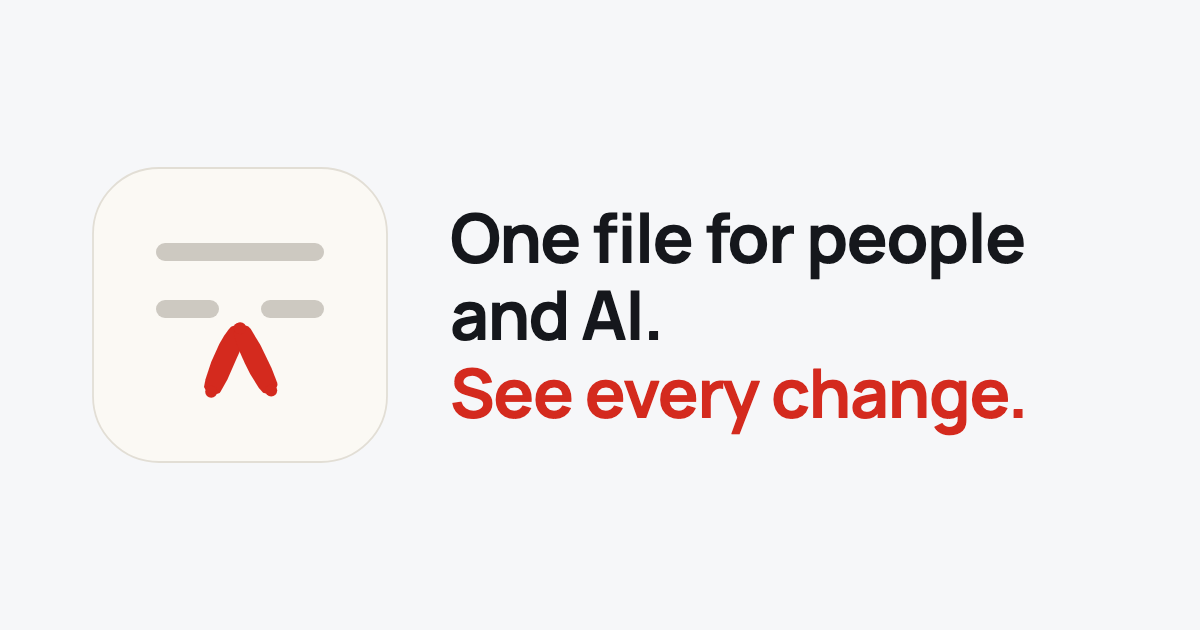
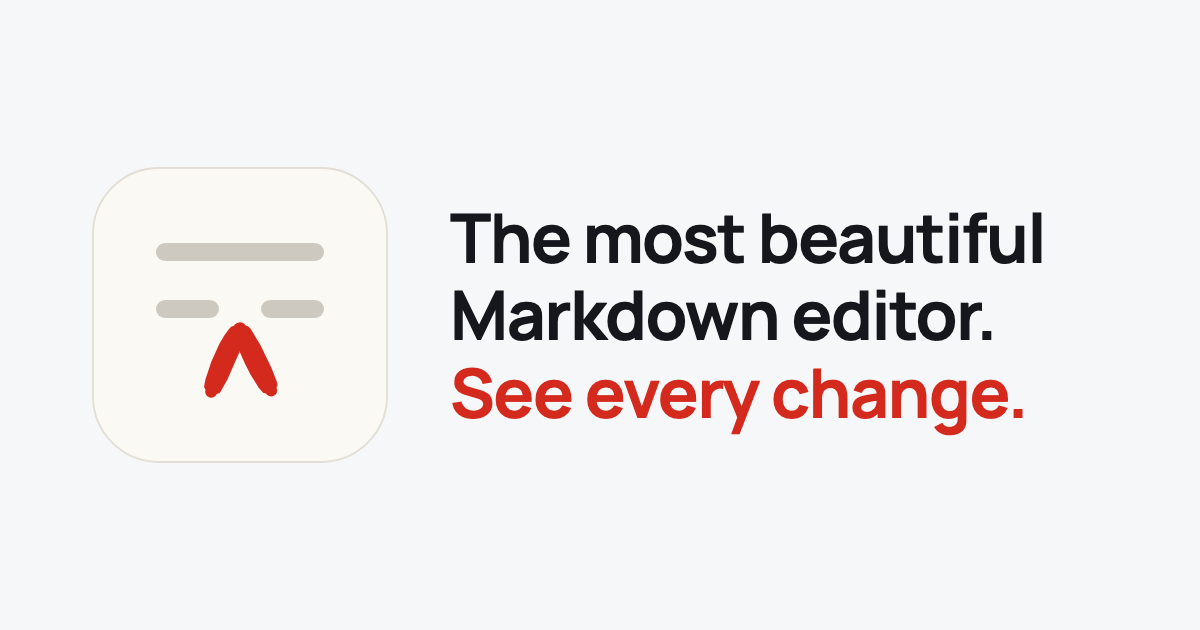
Website: the hero says what Redlines is first, the most beautiful Markdown editor
The hero, the page title, the lede and the social image led with a shared format for people and AI. The README and docs/design.md lead with the most beautiful Markdown editor, and so does the site now; 'See every change.' stays as the hero's second line, and the format's case stays in its own section.

Changed region(s): [[0.37, 0.3317, 0.8942, 0.4524], [0.37, 0.4524, 0.8325, 0.5429]]

diff --git a/website/lib/site.ts b/website/lib/site.ts
@@ -18,10 +18,10 @@ export const links = {
   license: `${product.repository}/blob/main/LICENSE`,
 };
 
-const lede = `People and AI need a shared document format: a plain file that holds who changed what, that both can read, edit and review. ${name} is that format, built on Markdown, with a free, open-source Mac editor for it. Ask @Claude or @Codex in a comment, and its reply and any tracked edit land in the file.`;
+const lede = `${name} is a free, open-source Markdown editor for the Mac. What you see is the document: Markdown syntax appears only where the caret is. When a colleague or an AI edits it, every change shows who made it, for you to accept or reject, and all of it stays in the plain Markdown file.`;
 
 export const meta = {
-  title: `${name}: a Markdown editor that shows every change, for people and AI`,
+  title: `${name}: the most beautiful Markdown editor. See every change.`,
   description: lede,
 };
 
@@ -39,7 +39,7 @@ export const nav = {
 };
 
 export const hero = {
-  title: 'One file for people and AI.',
+  title: 'The most beautiful Markdown editor.',
   titleAccent: 'See every change.',
   lede,
   designSpec: 'Read the design spec',

diff --git a/docs/superpowers/specs/2026-11-10-website-design.md b/docs/superpowers/specs/2026-11-10-website-design.md
@@ -763,7 +763,7 @@ The caret is already the page's icon in the repository. The work:
 1. **Deploy** (stage 5, on Stephan's yes). That alone puts the caret and the Nov 5 copy on
    `www.redlines.md`.
 2. **`app/apple-icon.png`** (180 × 180) and **`app/opengraph-image.png`** (1200 × 630: the caret on
-   warm paper at the left, the title "One file for people and AI. See every change." in the page's
+   warm paper at the left, the title "The most beautiful Markdown editor. See every change." in the page's
    type, no other chrome), rasterized from `apps/desktop/src-tauri/icons/family/caret.svg` and the
    site's tokens, committed under `website/src/app/` (Next's file convention writes the `<link>` and
    `<meta>` tags in a static export; `metadata.twitter.card` is `summary_large_image`, so the image
